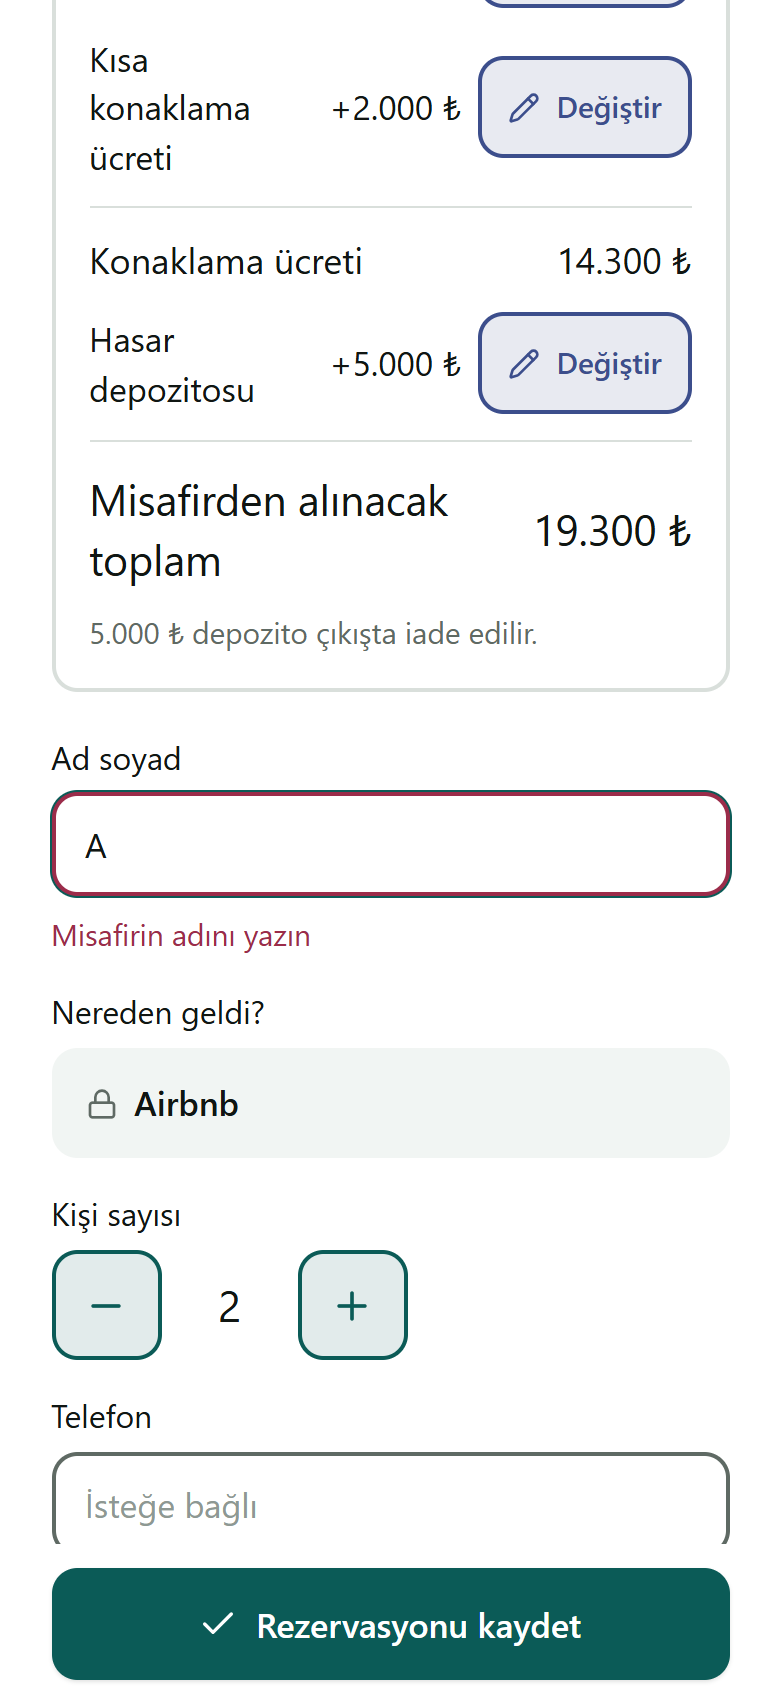
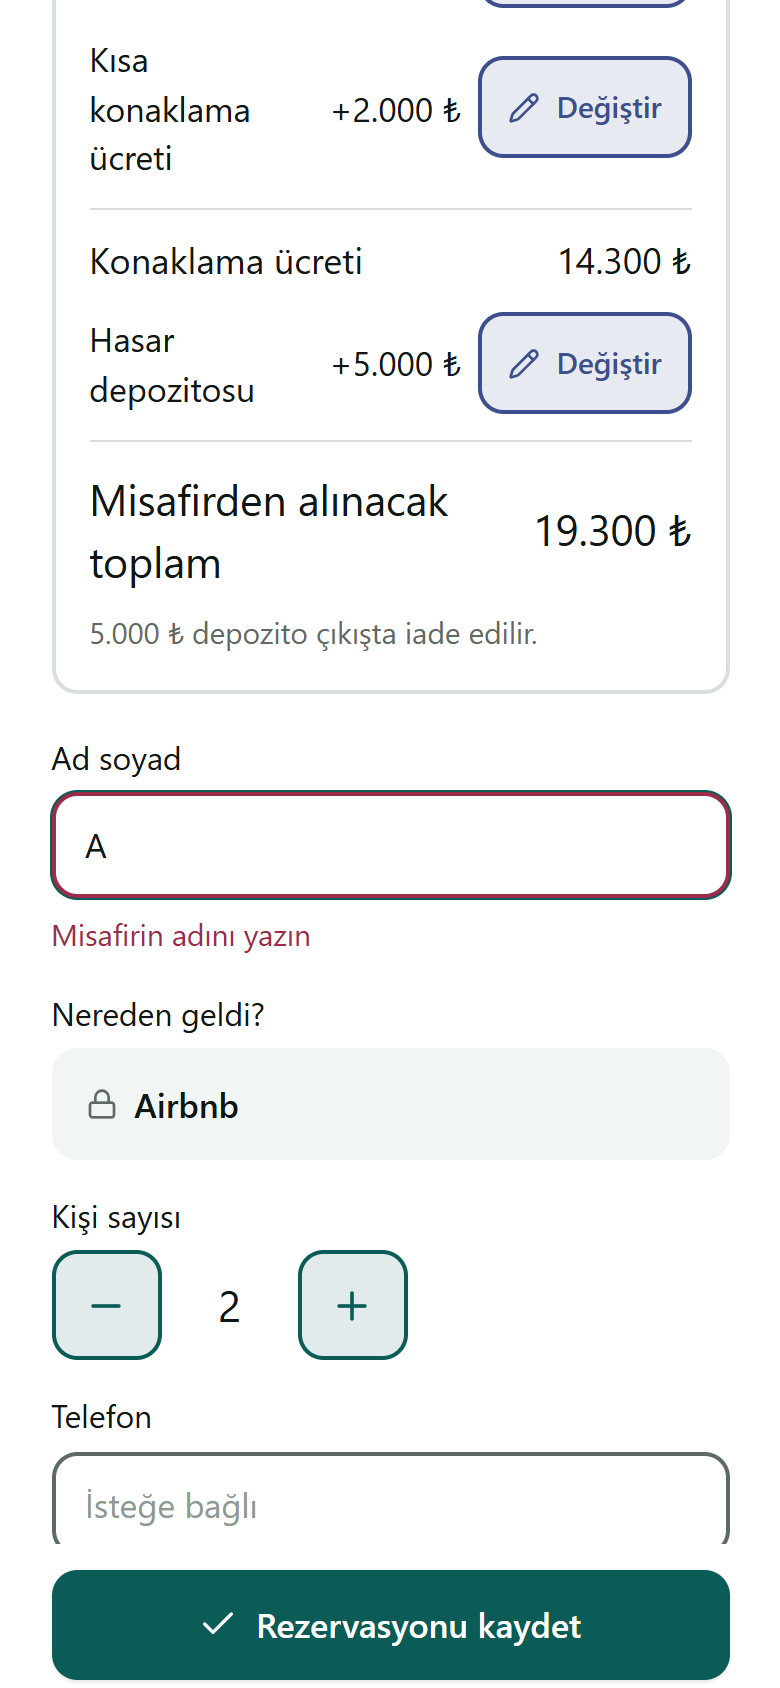
Görev 33.3: dış satıştan açılan form normal formla aynı yerleşimde
- Eski akış düzenleme formunu açıyordu (iki sütunlu tutar alanları, kayık ₺, farklı düğmeler).
  Artık normal rezervasyon formu açılıyor; SE ve iPhone 15, Normal ve Büyük yazıda ölçüldü:
  bütün düğmeler, tutarlar ve ₺ normal formla aynı yerde (fark 0).
- "10 dk ayrıldı" hapının yerinde aynı boyda kilit hapı: "Tarihler Airbnb'deki satıştan".
- Önce / sonra ekran görüntüleri ve ölçüm: docs/qa/gorev33/form-karsilastirma/.

diff --git a/www/index.html b/www/index.html
@@ -1612,6 +1612,11 @@
   .tutmaHap{display:inline-flex; align-items:center; gap:.375rem; margin:0 0 .75rem; padding:.375rem .875rem; border-radius:99px;
     background:var(--basili-zemin); color:var(--ok); font-size:.9375rem; line-height:1.3}
   .tutmaHap.bitti{background:var(--soft); color:var(--muted)}
+  .tutmaHap.kilitHap{background:var(--soft); color:var(--ink)}   /* 33.3: dış satış formu: tarihler kilitli */
+  .tutmaHap.kilitHap svg.ik{color:var(--muted)}
+  .tutmaHap .hapIc{display:grid}
+  .tutmaHap .hapIc > span{grid-area:1/1; align-self:center}
+  .tutmaHap .hapOlcu{visibility:hidden}
   .disSerit{display:flex; flex-direction:column; gap:.625rem; margin:0 0 1rem; padding:.875rem 1rem; border-radius:var(--kose);
     background:#FBEFF2; border:var(--cerceve-kalinlik) solid var(--uyari); color:var(--uyari); font-size:1rem; line-height:1.45}
   .disSerit .big{margin:0}
@@ -7583,6 +7588,12 @@
     rehberAc("rez",REHBER.rez);
     // 33.2: dış satıştan açılan formda bir şey yazıldıysa kapatırken sorulur
     var fo=isim.closest(".overlay");
+    if(t.dis && fo){
+      var kh=document.createElement("div"); kh.className="tutmaHap kilitHap"; kh.id="f-tarihKilit";
+      kh.innerHTML=ikon("kilit",{boy:16})+'<span class="hapIc"><span>'+esc(cev("Tarihler "+ekDe(t.dis.ad)+"ki satıştan"))+"</span>"+
+        '<span class="hapOlcu" aria-hidden="true">'+esc(cev("Bu tarihler 10 dk sizin için ayrıldı"))+" · 9:59</span></span>";
+      fo.querySelector(".sheet .head").insertAdjacentElement("afterend",kh);
+    }
     if(t.dis && fo) fo._kapatSor=function(){
       var od0=document.getElementById("f-odenen");
       return !!(isim.value.trim() || document.getElementById("f-phone").value.trim() || document.getElementById("f-note").value.trim() || (od0 && sayi(od0.value)));

diff --git a/www/dil.js b/www/dil.js
@@ -1447,7 +1447,8 @@
     [/^(\d+)% · (\d+) \/ (\d+) gece$/, "$1% · $2 of $3 nights"],
     [/^Boş güne dokunup tarih seçin\. Dolu güne dokununca rezervasyon açılır\. Giriş (\d+:\d+), çıkış (\d+:\d+)\.$/,
       "Tap a free day to pick dates. Tap a booked day to open the reservation. Check-in $1, check-out $2."],
-    [/^Her satıra bir oda yazın\. Örn:/, "Write one room per line. For example:"]
+    [/^Her satıra bir oda yazın\. Örn:/, "Write one room per line. For example:"],
+    [/^Tarihler (.+?)'n?[dt][ae]ki satıştan$/, "Dates come from the $1 booking"]
   ];
 
   function bosluksuz(t){ return String(t).replace(/\s+/g, " ").trim(); }

diff --git a/www/sw.js b/www/sw.js
@@ -3,7 +3,7 @@
 
 // Sürüm: her yayında artırılır. Dosya değişince telefonlar yeni servisi kurar;
 // açılışta eski sürümlerden kalan önbellekler silinir, böylece eski ekran kalmaz.
-var SURUM = "vt-2026-11-20-gorev33b";
+var SURUM = "vt-2026-11-20-gorev33c";
 
 self.addEventListener("install", function (e) {
   self.skipWaiting();

diff --git a/docs/qa/gorev33/form-karsilastirma/README.md b/docs/qa/gorev33/form-karsilastirma/README.md
@@ -1,0 +1,28 @@
+# 33.3: dış satıştan açılan form ile normal "Rezervasyon" formu
+
+iPhone SE (375 × 667) ve iPhone 15 (393 × 852), Normal ve Büyük yazı. Her durum için iki form, panelin üstü (`-ust`) ve altı (`-alt`).
+Normal form 17–20 Kasım, dış satış 25–28 Kasım (Airbnb): aynı ay, 3 gece, aynı gecelik fiyat, yani tarih satırı aynı uzunlukta.
+
+## Önce (`once-…`, Görev 32 sürümü)
+
+"Misafir bilgisi ekle" sunucuda hemen "Airbnb misafiri" adlı bir rezervasyon oluşturup **düzenleme formunu** açıyordu. Bu form
+normal formdan tamamen farklıydı: tarih alanları, "Kaç kişi" kutusu, iki sütunlu "Geceler toplamı (₺)" / "Kısa konaklama ücreti"
+alanları (₺ etiketi ve kutular kayık), "Kapora aldım" ve ücret kartı yok, başlık iki satır. Ölçümde 38–40 öğe farklı.
+
+## Sonra (`sonra-…`)
+
+Dış satıştan açılan form artık normal formun kendisi. Normal formdaki "Bu tarihler 10 dk sizin için ayrıldı" hapının yerinde aynı
+boyda kilit hapı ("Tarihler Airbnb'deki satıştan"): Büyük yazıda öteki hap iki satıra indiğinde bu da aynı boyda kalır.
+
+Ölçüm (`qa33c.js`): başlık, ücret kartındaki her satır, tutarlar ve "₺"nin satır sayısı / sağ kenarı, "Değiştir" düğmeleri,
+ad / telefon / not alanları, kişi sayacı, kapora anahtarı, Kaydet düğmesi; panelin üstüne göre x, y, genişlik, yükseklik.
+
+| Durum | Farklı öğe |
+|---|---|
+| SE · Normal | 0 |
+| SE · Büyük | 0 |
+| iPhone 15 · Normal | 0 |
+| iPhone 15 · Büyük | 0 |
+
+Tek fark "Nereden geldi?" satırı: dış satış formunda site kilitli olarak görünür (Normal yazıda 101 px, Büyük'te 114 px); altındaki
+her şey bu kadar aşağıda, kendi arasında birebir aynı. Normal forma "Nereden geldi?" 33.5'te eklenir; o zaman bu fark da kalkar.
